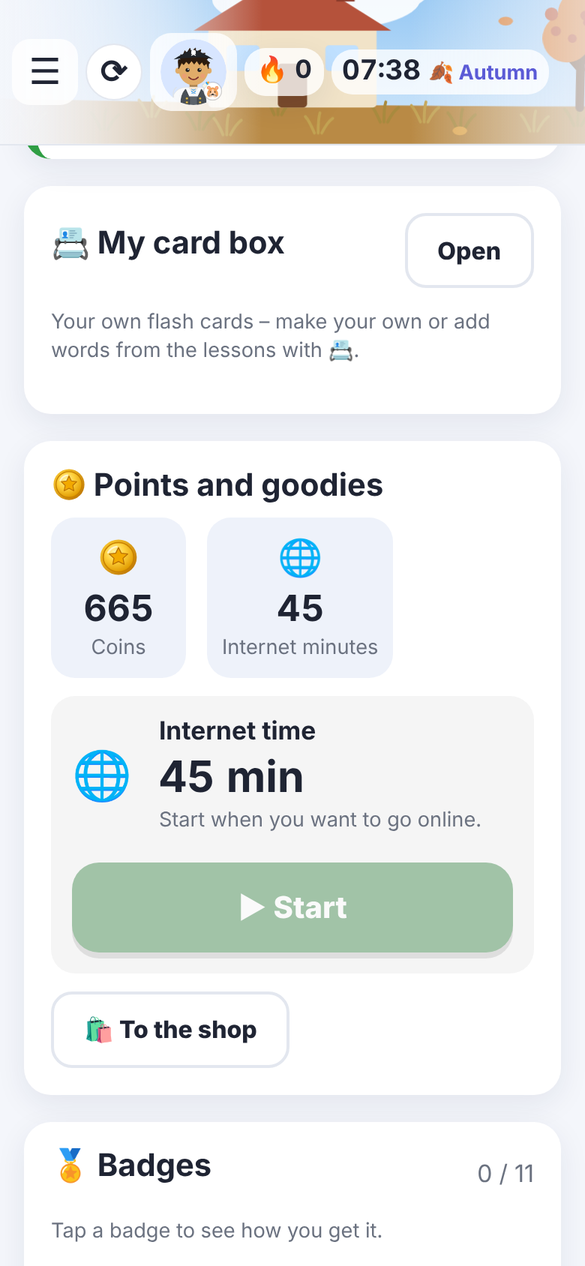
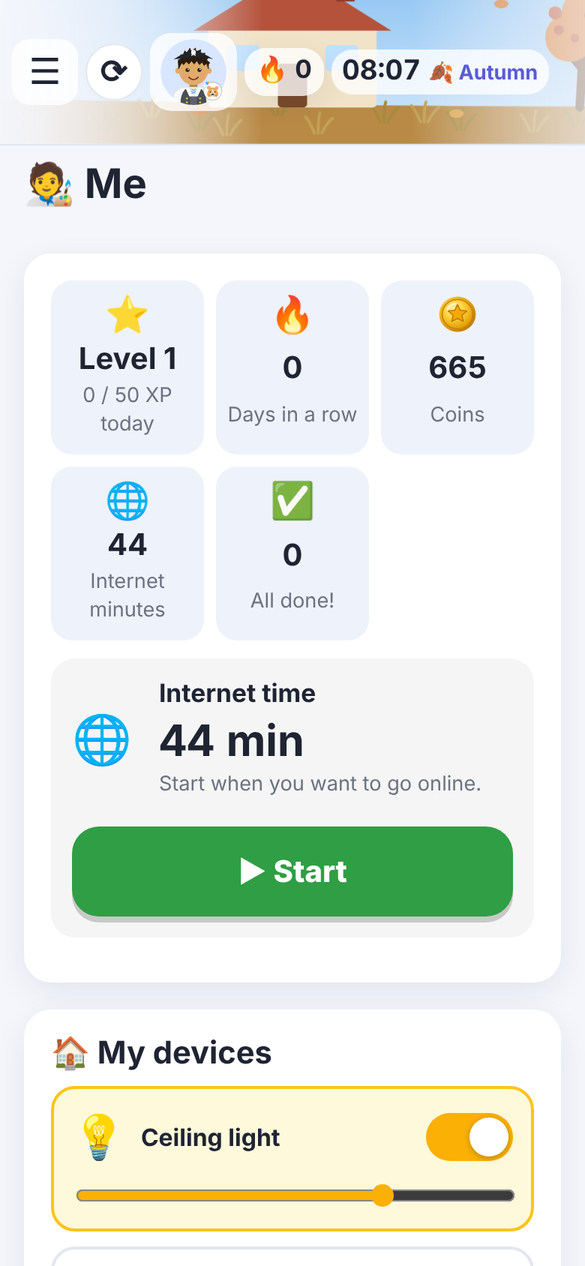
Me page: summary on top – points, open tasks, internet time with one start/pause button, lights
Claude-Session: https://claude.ai/code/session_01Qq55cLdzUHFMJ42xWMEhQC

diff --git a/family_quest/app/web/kid.js b/family_quest/app/web/kid.js
@@ -397,6 +397,23 @@ function internetCard(st) {
       : h("button.btn.big.good", { disabled: !st.can_start, onclick: () => act("start") }, "▶ ", T("Start")));
 }
 
+// «Me»: at the top everything about me at a glance – points, open tasks, internet time (one button: start / pause)
+// and my lights; the avatar, moods and pets follow below
+function meSummary() {
+  const me = S.me;
+  const accs = (me.accounts || []).filter(a => a.spendable);
+  const open = (me.chores || []).filter(c => !c.done && !c.pending);
+  const tile = (ic, value, label) => h("div.me-tile", h("span.me-ic", ic), h("b", value), h("span.small.muted", label));
+  const stats = h("section.card.me-sum",
+    h("div.me-tiles",
+      tile("⭐", "Level " + me.level.level, fmt(me.xp_today) + " / " + fmt(me.daily_goal) + " XP " + I18N.tr(T("today"))),
+      tile("🔥", String(me.streak), T("Days in a row")),
+      ...accs.map(a => tile(a.icon || "🪙", fmt(me.balances[a.key], 1), I18N.tr(a.name))),
+      tile(open.length ? "🧹" : "✅", String(open.length), open.length ? T("open tasks") : T("All done!"))),
+    me.internet ? internetCard(me.internet) : null);
+  return [stats, open.length ? choresCard(me.chores) : null, me.has_devices ? devicesCard() : null];
+}
+
 function badgesCard(badges) {
   const got = badges.filter(b => b.earned).length;
   return h("section.card", h("div.row", h("h2.grow", "🏅 ", T("Badges")), h("span.muted", got + " / " + badges.length)),
@@ -1142,7 +1159,7 @@ async function avatarView() {
     h("label.feel", h("span", T("Today I feel …")), feel),
     h("span.small.muted", "🔒 ", T("Only your parents see this.")));
   draw(); drawTabs(); drawPanel();
-  screen("avatar", h("h1", "🧑🎨 ", T("Me")), moods, petsSection(), h("div.av-editor", preview, h("div.av-side", tabs, panel)),
+  screen("avatar", h("h1", "🧑🎨 ", T("Me")), ...meSummary(), moods, petsSection(), h("div.av-editor", preview, h("div.av-side", tabs, panel)),
     h("div.row.center", h("button.btn.big", { onclick: save }, "💾 ", T("Save"))),
     h("div.row.center", h("button.btn.ghost", { onclick: changePin }, "🔑 ", T("Change my PIN"))),
     S.me.games ? botsSection() : null);

diff --git a/family_quest/app/web/kid.css b/family_quest/app/web/kid.css
@@ -285,6 +285,7 @@
 /* internet time */
 .net { display: flex; align-items: center; gap: 18px; flex-wrap: wrap; }
 .net.on { box-shadow: 0 0 0 4px var(--good), var(--shadow); }
+.net-inline.on { box-shadow: inset 0 0 0 3px var(--good); }   /* inside a card: the frame stays inside */
 .net-inline { margin: 12px 0; padding: 14px; border-radius: 16px; background: var(--soft, rgba(127,127,127,.08)); }
 .net-inline .net-ic { font-size: 2rem; } .net-inline h2 { font-size: 1.05rem; margin: 0; } .net-inline .net-clock { font-size: 1.8rem; }
 .net-ic { font-size: 2.6rem; }
@@ -439,3 +440,9 @@
   .fq-head .me, .fq-head .clk { padding: 4px 7px; }
   .fq-head .clk .tl { gap: 5px; }
 }
+/* «Me»: the summary at the top (meSummary) */
+.me-tiles { display: grid; grid-template-columns: repeat(auto-fit, minmax(96px, 1fr)); gap: 8px; }
+.me-tile { display: grid; justify-items: center; gap: 2px; padding: 10px 6px; border-radius: 14px; background: var(--hover); text-align: center; }
+.me-tile .me-ic { font-size: 1.5rem; line-height: 1.1; }
+.me-tile b { font-size: 1.25rem; }
+.me-sum .net { margin-top: 12px; }

diff --git a/README.md b/README.md
@@ -43,8 +43,8 @@ one place. No ads, no account, no cloud: all data stays in Home Assistant.
 | **Jass** – the Swiss card game with bots as partners or opponents | **Chess** – against bots or each other, games can be paused | **Dorfmarkt** – trading board game in a Swiss village |
 | ![Heimwärts](docs/screenshots/game-heimwaerts.png) | ![Guests via QR code](docs/screenshots/guests.png) | ![Shop and pranks](docs/screenshots/shop.png) |
 | **Heimwärts** – race board game for 2–4 | **Guests welcome** – grandparents, aunts and godparents join with a QR code, also from the guest Wi-Fi | **Shop** – avatar items and pranks like the ink bomb |
-| ![Pets](docs/screenshots/pets.png) | ![Internet time with UniFi](docs/screenshots/internet.png) | ![My devices](docs/screenshots/devices.png) |
-| **Pets** – feed, play, wash; pet sitting and babies | **Internet time** – directly integrated with UniFi: the child starts and pauses its own online time | **My devices** – the child switches and dims the lights of its own room |
+| ![Pets](docs/screenshots/pets.png) | ![Me: points, tasks, internet time](docs/screenshots/internet.png) | ![My devices](docs/screenshots/devices.png) |
+| **Pets** – feed, play, wash; pet sitting and babies | **Me** – points, open tasks, the internet time (directly integrated with UniFi: one button to start and pause) and the lights at a glance | **My devices** – the child switches and dims the lights of its own room |
 | ![Family council](docs/screenshots/council.png) | ![Polls](docs/screenshots/polls.png) | ![Wichteln](docs/screenshots/wichteln.png) |
 | **Family council** – anybody can bring up a topic, everybody adds ideas, then the family votes secretly | **Polls** – ask the family something, everybody answers on their own phone | **Wichteln** – secret gift giving: who gives to whom is drawn, everybody sees only their own |
 | ![My card box](docs/screenshots/cardbox.png) | | |
